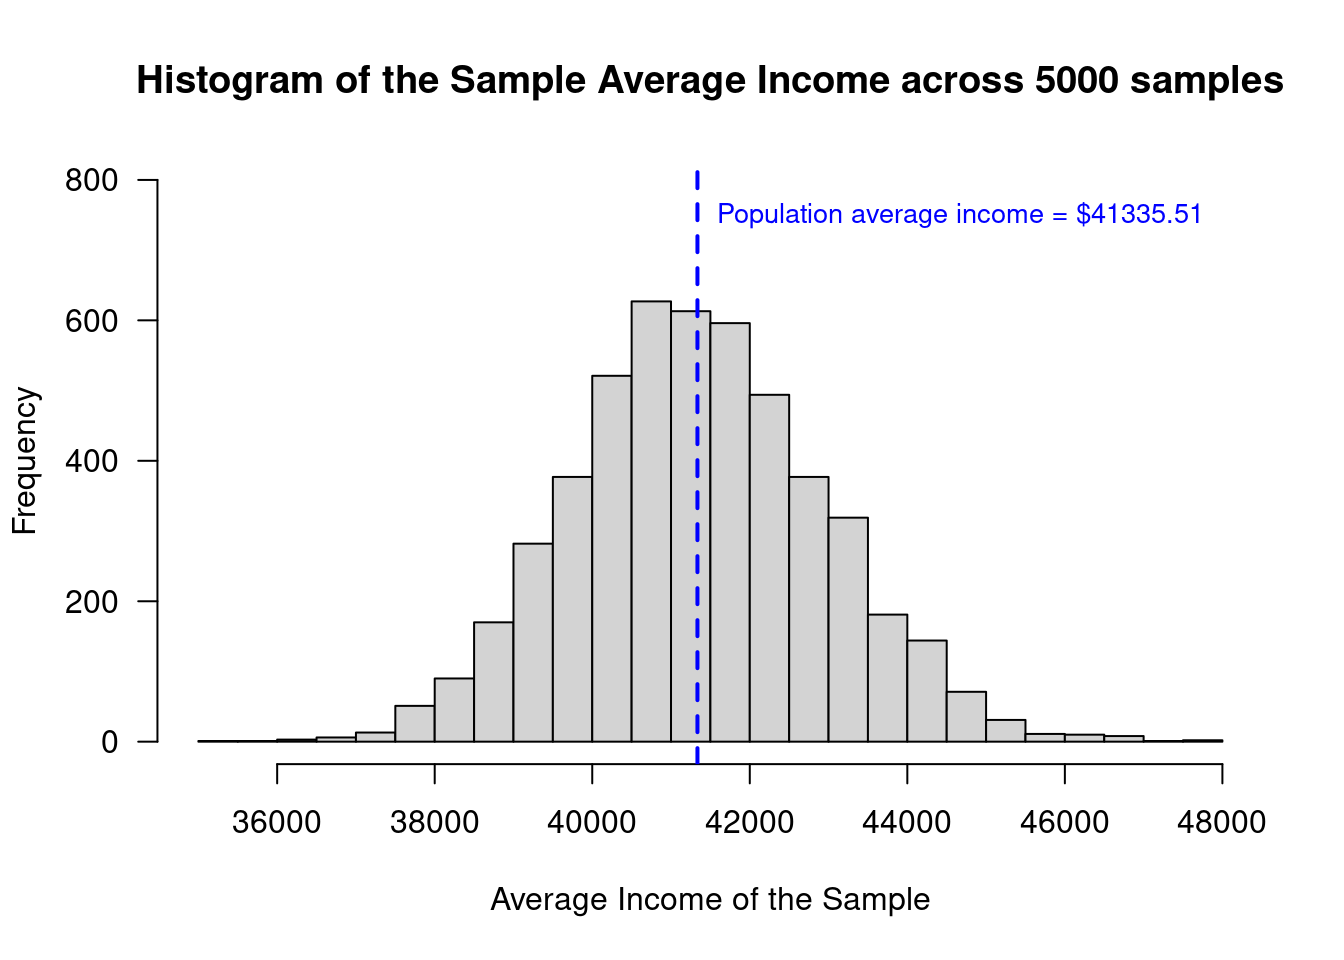
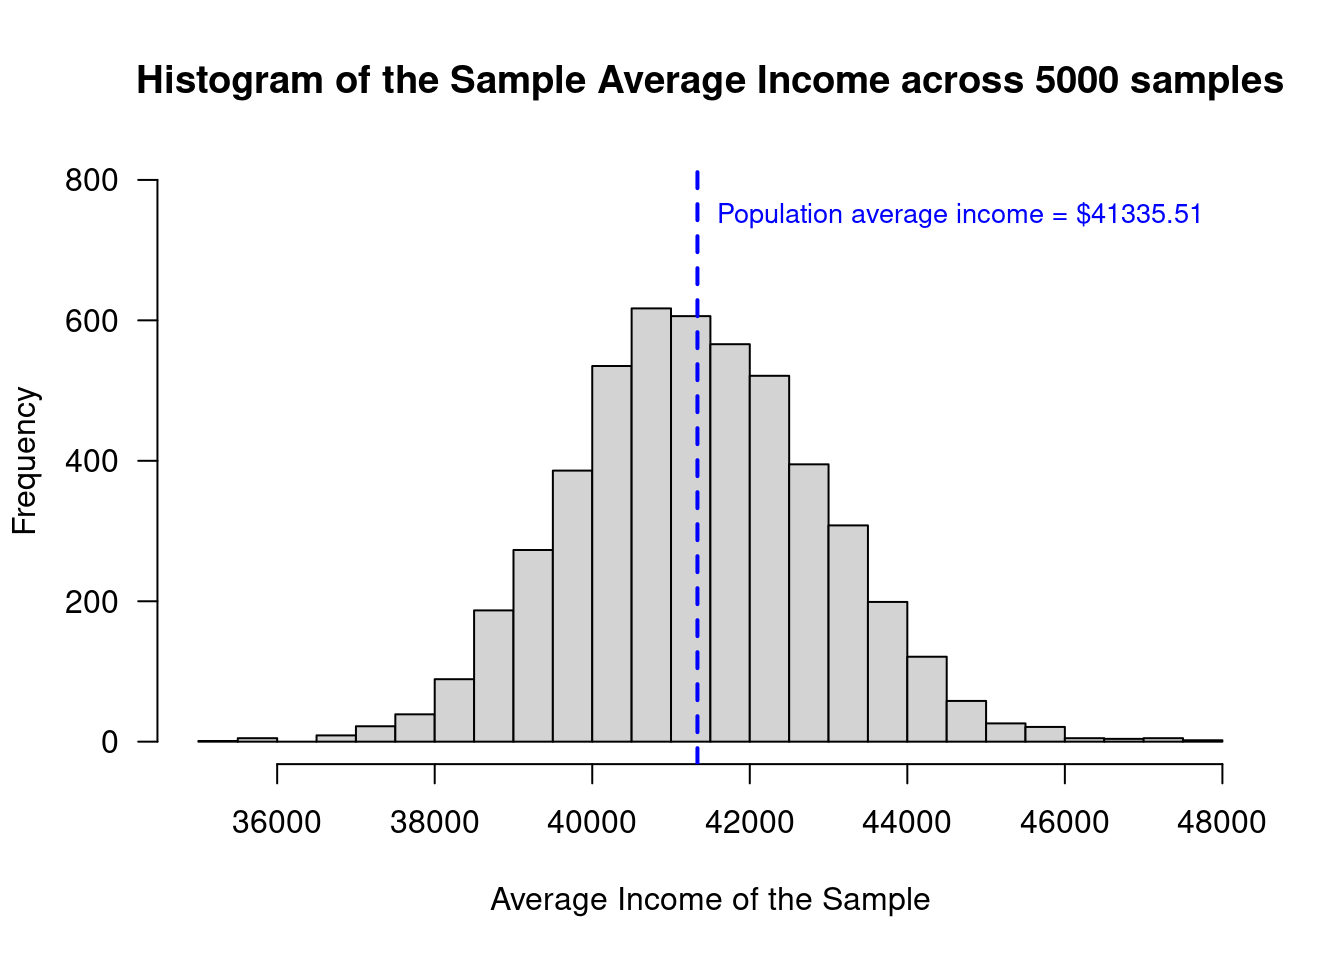
If statements and Loops tutorial

diff --git a/docs/Intro-To-Coding-R.html b/docs/Intro-To-Coding-R.html
@@ -389,7 +389,7 @@ x</code></pre>
 <pre class="r"><code>2*3 </code></pre>
 <pre><code>&gt; [1] 6</code></pre>
 <pre class="r"><code>2/3 </code></pre>
-<pre><code>&gt; [1] 0.6666667</code></pre>
+<pre><code>&gt; [1] 0.667</code></pre>
 <pre class="r"><code>2^3</code></pre>
 <pre><code>&gt; [1] 8</code></pre>
 <pre class="r"><code>2*(3+1)^2</code></pre>
@@ -418,7 +418,7 @@ x</code></pre>
 <pre><code>&gt; [1] 3</code></pre>
 <pre class="r"><code>x &lt;- 5.412
 x</code></pre>
-<pre><code>&gt; [1] 5.412</code></pre>
+<pre><code>&gt; [1] 5.41</code></pre>
 <p>Look <a
 href="https://statisticsglobe.com/assignment-operators-in-r">here</a>
 for an explanation of the differences between “=” and “&lt;-”.</p>
@@ -443,13 +443,13 @@ c(1, 2, 3, 4)</code></pre>
 <pre><code>&gt; [1] 1 2 3 4</code></pre>
 <pre class="r"><code>x = c(1.1, 0.0, 3.14, 2.718)
 x</code></pre>
-<pre><code>&gt; [1] 1.100 0.000 3.140 2.718</code></pre>
+<pre><code>&gt; [1] 1.10 0.00 3.14 2.72</code></pre>
 <p>One way to access specific values within a vector is use the index of
 that value</p>
 <pre class="r"><code>x[1]</code></pre>
 <pre><code>&gt; [1] 1.1</code></pre>
 <pre class="r"><code>x[4]</code></pre>
-<pre><code>&gt; [1] 2.718</code></pre>
+<pre><code>&gt; [1] 2.72</code></pre>
 <p>Sequences of integers are so common that there is a shortcut for
 making them.</p>
 <pre class="r"><code>1:4</code></pre>
@@ -483,21 +483,21 @@ x</code></pre>
 <p>R has all the functions you know and love. (Most of them can be used
 on vectors.)</p>
 <pre class="r"><code>sin(1)</code></pre>
-<pre><code>&gt; [1] 0.841471</code></pre>
+<pre><code>&gt; [1] 0.841</code></pre>
 <pre class="r"><code>sin(1.4)</code></pre>
-<pre><code>&gt; [1] 0.9854497</code></pre>
+<pre><code>&gt; [1] 0.985</code></pre>
 <pre class="r"><code>sin(3)</code></pre>
-<pre><code>&gt; [1] 0.14112</code></pre>
+<pre><code>&gt; [1] 0.141</code></pre>
 <pre class="r"><code># R knows about pi
 pi</code></pre>
-<pre><code>&gt; [1] 3.141593</code></pre>
+<pre><code>&gt; [1] 3.14</code></pre>
 <pre class="r"><code>sin(pi/2)</code></pre>
 <pre><code>&gt; [1] 1</code></pre>
 <pre class="r"><code># The exponential function
 exp(0)</code></pre>
 <pre><code>&gt; [1] 1</code></pre>
 <pre class="r"><code>exp(1)</code></pre>
-<pre><code>&gt; [1] 2.718282</code></pre>
+<pre><code>&gt; [1] 2.72</code></pre>
 <pre class="r"><code># factorial:  n!
 factorial(8)</code></pre>
 <pre><code>&gt; [1] 40320</code></pre>
@@ -535,7 +535,7 @@ mean(Y, na.rm=FALSE)     </code></pre>
 <pre><code>&gt; [1] NA</code></pre>
 <pre class="r"><code># Changing the argument to TRUE
 mean(Y, na.rm=TRUE)</code></pre>
-<pre><code>&gt; [1] 5.142857</code></pre>
+<pre><code>&gt; [1] 5.14</code></pre>
 <div id="custom-functions" class="section level3">
 <h3>Custom Functions</h3>
 <p>When writing code, you will often find that you are using the same
@@ -559,7 +559,9 @@ whenever you like.</p>
 </div>
 </div>
 <div id="if-statements-and-loops" class="section level2">
-<h2>If statements and Loops</h2>
+<h2>If Statements and Loops</h2>
+<div id="logical-conditions" class="section level3">
+<h3>Logical Conditions</h3>
 <p>R supports logical conditions:</p>
 <table>
 <thead>
@@ -602,7 +604,155 @@ whenever you like.</p>
 </tr>
 </tbody>
 </table>
-<p>for do while while if</p>
+<pre class="r"><code>1==1</code></pre>
+<pre><code>&gt; [1] TRUE</code></pre>
+<pre class="r"><code>1==0</code></pre>
+<pre><code>&gt; [1] FALSE</code></pre>
+<pre class="r"><code>1&gt;0</code></pre>
+<pre><code>&gt; [1] TRUE</code></pre>
+</div>
+<div id="if-statements" class="section level3">
+<h3>If Statements</h3>
+<p>We can use logical conditions in many ways, the most common is within
+‘If’ statements. An If statement only executes if its condition is
+TRUE</p>
+<pre class="r"><code>x = 1
+if(1==1) {
+  x = 2
+}
+x</code></pre>
+<pre><code>&gt; [1] 2</code></pre>
+<pre class="r"><code>if(1==0) {
+  x = 3
+}
+x</code></pre>
+<pre><code>&gt; [1] 2</code></pre>
+<p>We can also provide code that will run should the ‘If’ statement be
+FALSE.</p>
+<pre class="r"><code>x = 1
+if(1==0){ 
+  x = 2 #IF TRUE 
+} else {
+  x = 3 #IF FALSE
+}
+x</code></pre>
+<pre><code>&gt; [1] 3</code></pre>
+</div>
+<div id="logical-operators" class="section level3">
+<h3>Logical Operators</h3>
+<p>R supports logical operators as well:</p>
+<table>
+<colgroup>
+<col width="44%" />
+<col width="55%" />
+</colgroup>
+<thead>
+<tr class="header">
+<th align="center">Operator</th>
+<th>Description</th>
+</tr>
+</thead>
+<tbody>
+<tr class="odd">
+<td align="center">&amp;&amp;</td>
+<td>Logical AND operator - Returns TRUE if both statements are TRUE</td>
+</tr>
+<tr class="even">
+<td align="center">||</td>
+<td>Logical OR operator. It returns TRUE if one of the statements is
+TRUE.</td>
+</tr>
+<tr class="odd">
+<td align="center">!</td>
+<td>Logical NOT - returns FALSE if statement is TRUE</td>
+</tr>
+</tbody>
+</table>
+<pre class="r"><code>1||0</code></pre>
+<pre><code>&gt; [1] TRUE</code></pre>
+<pre class="r"><code>1&amp;&amp;0</code></pre>
+<pre><code>&gt; [1] FALSE</code></pre>
+<pre class="r"><code>!1||0</code></pre>
+<pre><code>&gt; [1] FALSE</code></pre>
+</div>
+<div id="loops" class="section level3">
+<h3>Loops</h3>
+<p>There are two types of loops in R.</p>
+<ul>
+<li><strong>While</strong> loops<br />
+</li>
+<li><strong>For</strong> loops</li>
+</ul>
+<div id="while" class="section level4">
+<h4>While</h4>
+<p>While loops execute as long as a condition remains TRUE.</p>
+<pre class="r"><code>x = 1
+while(x &lt; 5){
+  print(x)
+  x = x + 1
+}</code></pre>
+<pre><code>&gt; [1] 1
+&gt; [1] 2
+&gt; [1] 3
+&gt; [1] 4</code></pre>
+<p>It is important to be careful with loops. For example, forgetting to
+increment x can cause an infinite loop.</p>
+</div>
+<div id="for" class="section level4">
+<h4>For</h4>
+<p>For loops allow for iterating over a sequence. The for statement will
+execute code once for each item.</p>
+<pre class="r"><code>for(x in 1:5){
+  print(x)
+}</code></pre>
+<pre><code>&gt; [1] 1
+&gt; [1] 2
+&gt; [1] 3
+&gt; [1] 4
+&gt; [1] 5</code></pre>
+</div>
+<div id="break-and-next" class="section level4">
+<h4>Break and Next</h4>
+<p>The break and next statements allow for more control within our
+loops. Break will stop our loop, and next will skip the current
+iteration without stopping the remainder.</p>
+<pre class="r"><code>for(x in 1:5){
+  if(x==4) break
+  print(x)
+}</code></pre>
+<pre><code>&gt; [1] 1
+&gt; [1] 2
+&gt; [1] 3</code></pre>
+<pre class="r"><code>for(x in 1:5){
+  if(x==4) next
+  print(x)
+}</code></pre>
+<pre><code>&gt; [1] 1
+&gt; [1] 2
+&gt; [1] 3
+&gt; [1] 5</code></pre>
+</div>
+<div id="more-complex-example" class="section level4">
+<h4>More complex example</h4>
+<pre class="r"><code>data = read.csv(&quot;Datasets/families.csv&quot;)
+head(data)</code></pre>
+<pre><code>&gt;   TYPE PERSONS CHILDREN INCOME REGION EDUCATION
+&gt; 1    1       2        0  43450      1        39
+&gt; 2    1       2        0  79000      1        40
+&gt; 3    1       2        0  51306      1        39
+&gt; 4    1       4        2  24850      1        41
+&gt; 5    1       4        2  65145      1        43
+&gt; 6    3       3        2  23015      1        40</code></pre>
+<pre class="r"><code>#Count number of families with more than two people
+count = 0
+for(x in data$PERSONS){
+  # x is taken from each row of the &#39;persons&#39; column
+  if(x&gt;2) count = count + 1
+}
+count</code></pre>
+<pre><code>&gt; [1] 25335</code></pre>
+</div>
+</div>
 </div>
 <div id="getting-help" class="section level2">
 <h2>Getting Help</h2>

diff --git a/docs/03b-CLT.html b/docs/03b-CLT.html
@@ -457,11 +457,11 @@ deviation of the sample.</p>
 <pre class="r"><code># Calculate the sample mean of Income
 sample.avg &lt;- mean(study.data$INCOME)
 sample.avg</code></pre>
-<pre><code>&gt; [1] 42099.88</code></pre>
+<pre><code>&gt; [1] 39616.03</code></pre>
 <pre class="r"><code># Calculate the sample sd of Income
 sample.sd &lt;- sd(study.data$INCOME)
 sample.sd</code></pre>
-<pre><code>&gt; [1] 34100.79</code></pre>
+<pre><code>&gt; [1] 32323.15</code></pre>
 <p>If you run the last two sections of code repeatedly, you will find
 that each time a new sample is selected the sample mean is a different
 number.</p>
@@ -587,7 +587,7 @@ upperCI = sample.avg + qnorm(0.975, mean = 0, sd = 1) * se
 
 print(cbind(sample.avg, lowerCI, upperCI))</code></pre>
 <pre><code>&gt;      sample.avg  lowerCI  upperCI
-&gt; [1,]   41349.33 38110.34 44588.33</code></pre>
+&gt; [1,]   41425.78 38361.97 44489.59</code></pre>
 </div>
 <div id="interpreting-confidence-intervals" class="section level2">
 <h2>Interpreting confidence intervals</h2>
@@ -613,7 +613,7 @@ sample.reps$outBounds[ true.avg &gt; sample.reps$upperCI ] &lt;- 1
 
 # what % of study replications reported 95% CI that did not include the true population average?
 sum(sample.reps$outBounds)/m</code></pre>
-<pre><code>&gt; [1] 0.0528</code></pre>
+<pre><code>&gt; [1] 0.0508</code></pre>
 <p>I hope it is not too much of a surprise that this is really close to
 5%!</p>
 <p>Next: Elements of a Statistical Test</p>

diff --git a/docs/04a-Binomial-Test.html b/docs/04a-Binomial-Test.html
@@ -357,7 +357,7 @@ p of “success” is called a Bernoulli trial.</p>
 <pre class="r"><code># Simulate a single Bernoulli trial with p = 1/6
 p = 1/6
 if(runif(1) &lt;= p){1}else{0}</code></pre>
-<pre><code>&gt; [1] 1</code></pre>
+<pre><code>&gt; [1] 0</code></pre>
 </div>
 <div id="recall-the-binomial-process" class="section level3">
 <h3>Recall the Binomial Process</h3>
@@ -366,7 +366,7 @@ if(runif(1) &lt;= p){1}else{0}</code></pre>
 p = 1/6
 n = 20
 as.integer(runif(n) &lt;= p)</code></pre>
-<pre><code>&gt;  [1] 0 0 0 1 0 0 0 0 0 0 0 0 0 0 0 0 0 0 0 0</code></pre>
+<pre><code>&gt;  [1] 1 0 0 0 0 0 0 0 0 0 0 0 0 0 0 1 0 1 0 0</code></pre>
 </div>
 </div>
 <div id="binomial-distribution-functions" class="section level2">
@@ -424,9 +424,9 @@ trials when the probability of success is “prob”</p>
 n = 20
 p = 1/6
 rbinom(n = trials, size = n, prob = p)</code></pre>
-<pre><code>&gt;   [1] 5 3 0 5 3 4 3 4 3 1 5 4 6 4 3 4 2 3 3 5 4 0 3 2 4 2 2 3 2 3 0 4 4 5 9 3 2
-&gt;  [38] 3 4 1 4 4 2 1 6 2 3 3 4 1 1 1 5 6 2 1 5 3 2 2 3 6 3 4 2 1 3 0 4 2 6 3 3 3
-&gt;  [75] 7 1 4 3 4 2 3 3 4 1 1 8 2 2 4 5 4 1 3 5 2 3 3 4 2 3</code></pre>
+<pre><code>&gt;   [1] 2 5 3 3 5 3 4 2 5 5 7 1 5 1 2 4 6 3 7 1 1 5 1 0 5 2 5 3 4 4 4 2 3 1 2 5 1
+&gt;  [38] 3 4 4 3 5 1 2 6 2 4 1 5 3 5 3 4 5 6 2 2 3 4 4 6 6 4 5 5 3 1 6 3 4 2 4 4 3
+&gt;  [75] 2 3 3 3 2 2 6 2 3 5 1 5 3 4 6 4 1 4 4 6 3 4 2 4 2 7</code></pre>
 </div>
 </div>
 <div id="binomial-test-theory" class="section level2">
